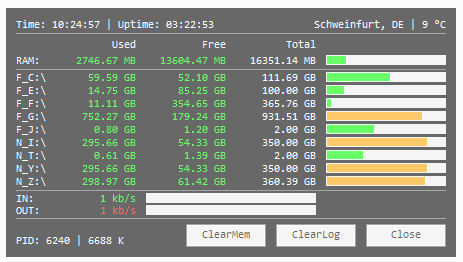
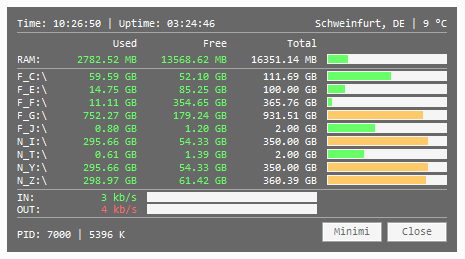
Update to v0.7.4
Update README
Update Screenshot
Update src\htopmini

diff --git a/README.md b/README.md
@@ -17,11 +17,12 @@ Small System-Info Tool via AutoHotkey
 
 
 ## Info
-* Version: v0.7.3
+* Version: v0.7.4
 * URL: [AHK Thread](http://ahkscript.org/boards/viewtopic.php?f=6&t=254)
 
 
 ## Changelog
+* 0.7.4 | Bugfixes & Improvements
 * 0.7.3 | Bugfixes & Improvements
 * 0.7.2 | Fix GlobalMemoryStatusEx()
 * 0.7.1 | Fix GetProcessMemoryInfo
